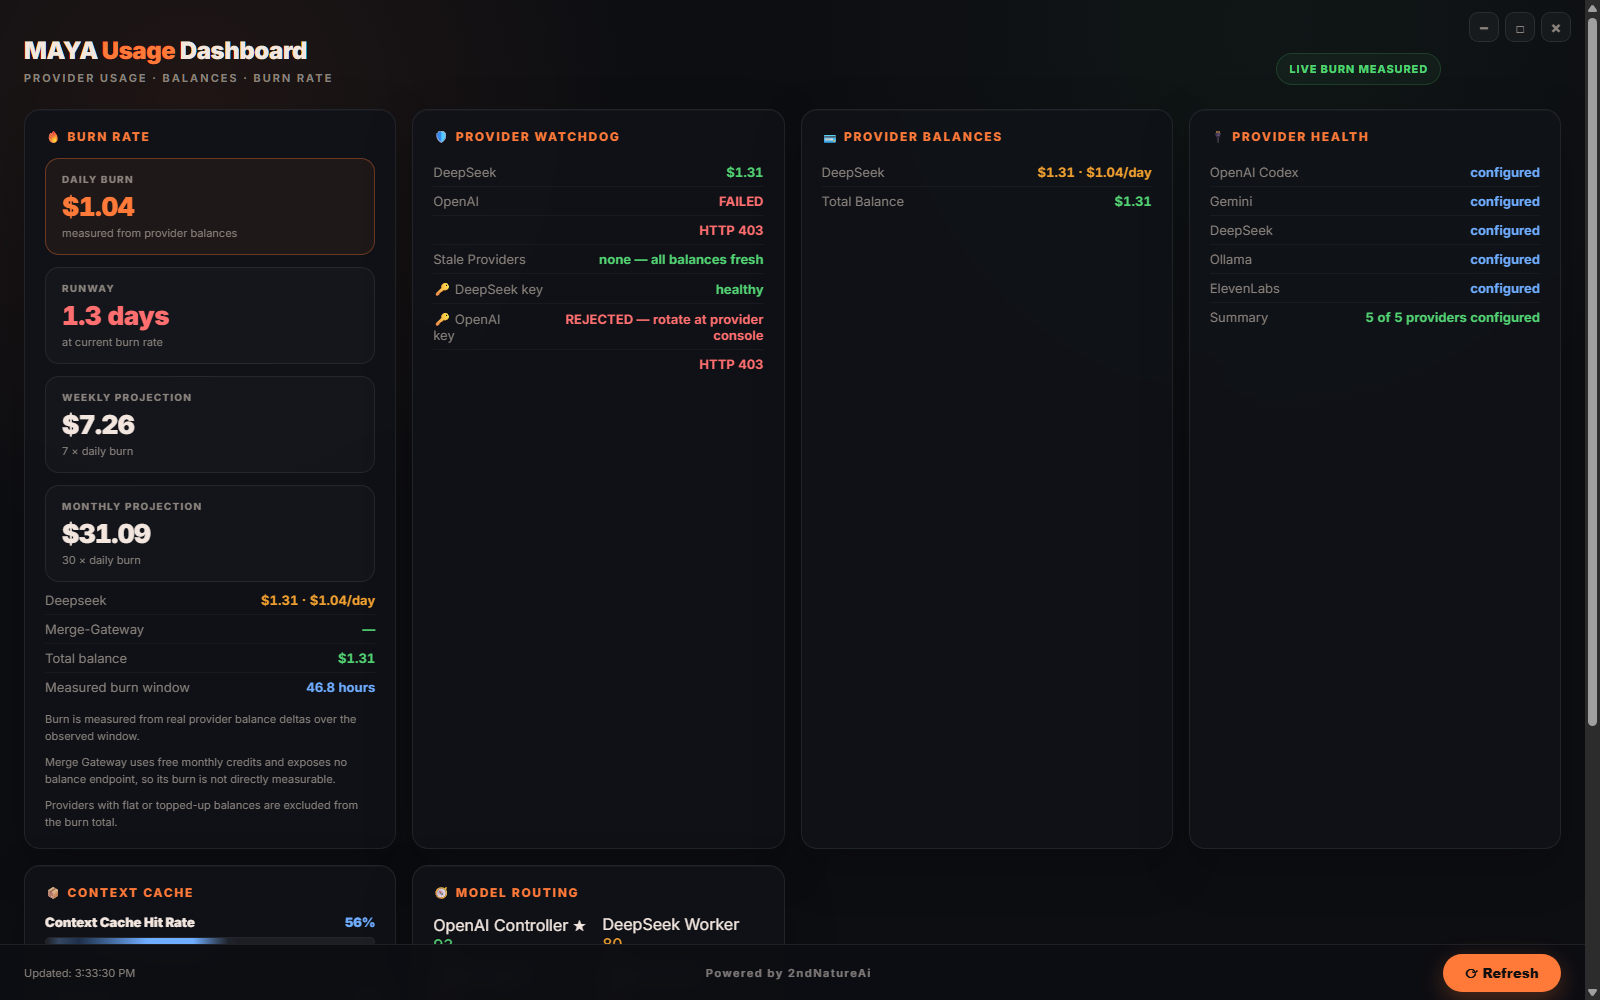
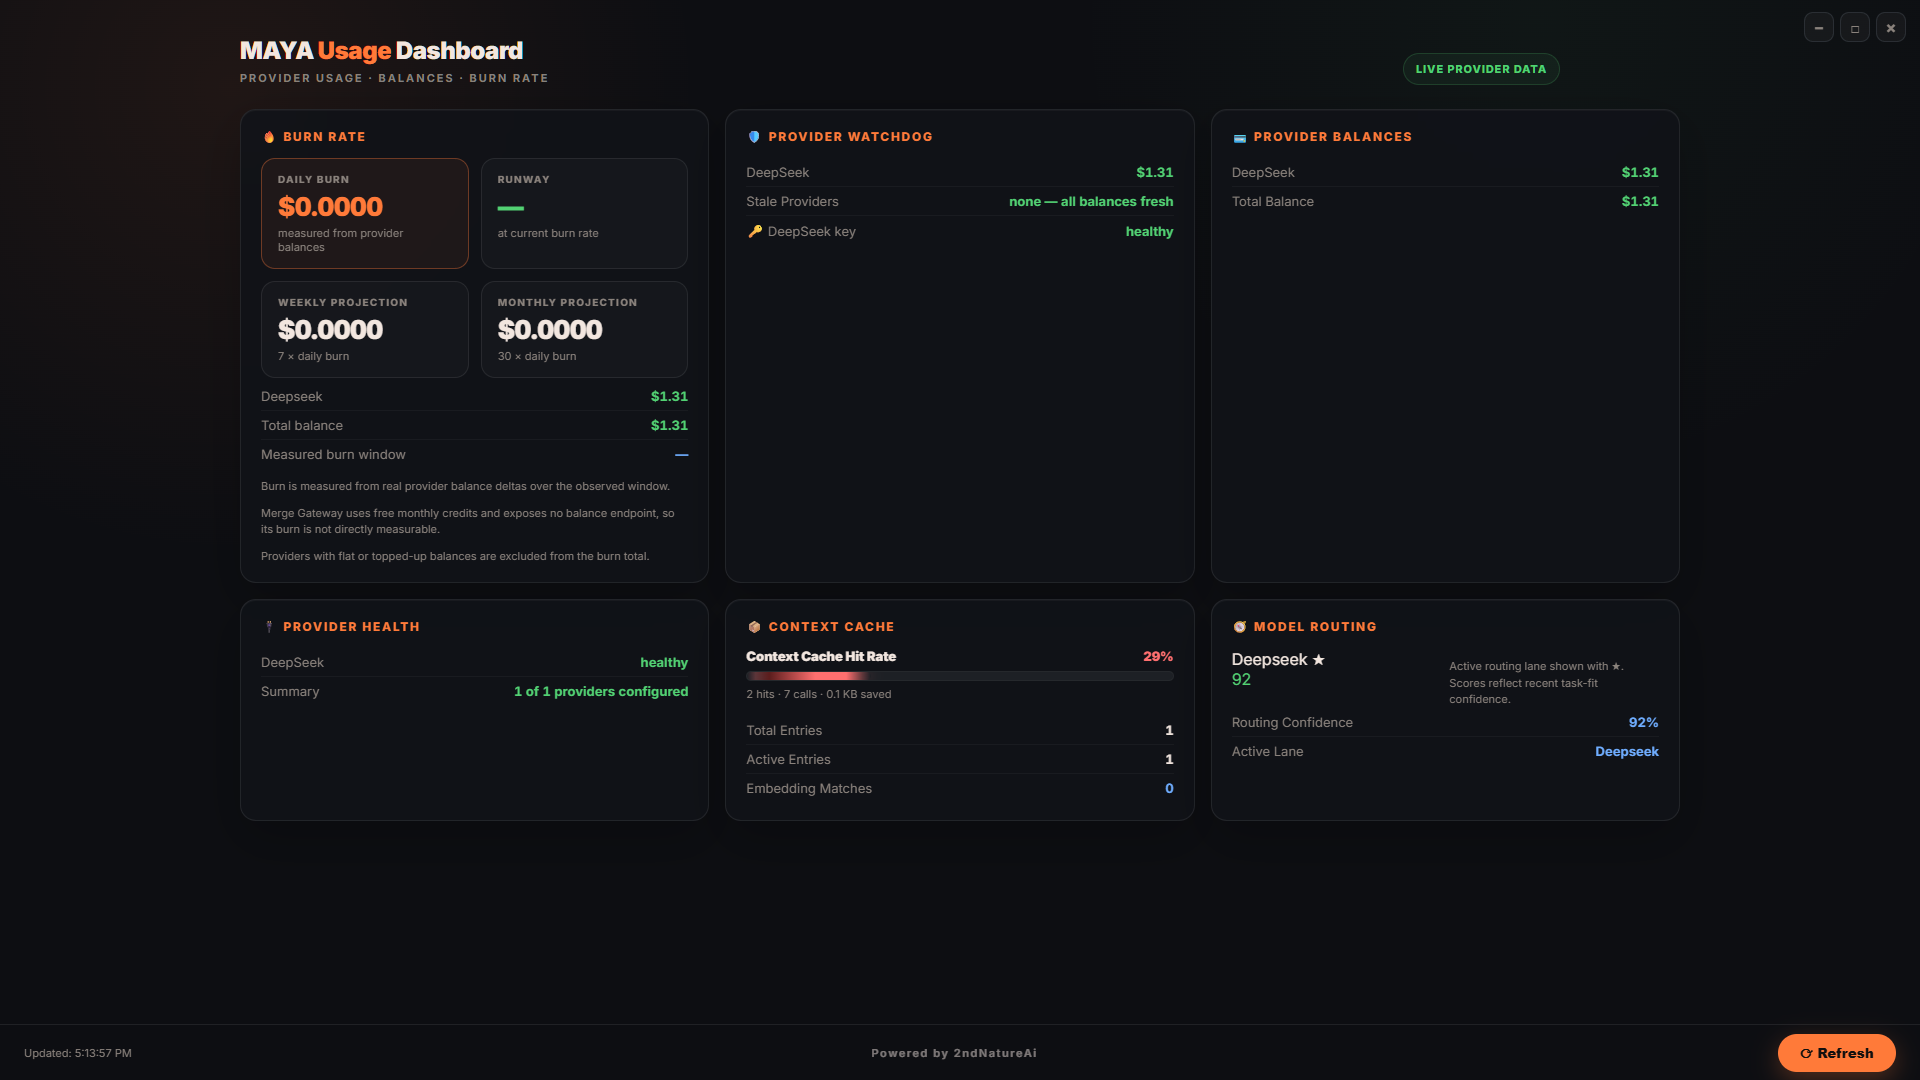
fix: fill public dashboard grid, add context cache + routing data
The public dashboard rendered only 2-3 cards on fresh clones because the
server never provided crl/moe data, leaving a large empty dead zone below
the content. Fixes:

- server.mjs: real minimal context cache (TTL response cache with genuine
  hit/call/byte stats) + routing snapshot derived from real provider health
- HTML: cap grid width (1440px) + center it so cards don't stretch
  edge-to-edge; tighten bottom padding
- README screenshot refreshed to the full 6-card grid
- test: realtime-usage contract now asserts crl/moe/rateLimits present and
  internal fields (memoryUsage/triad/bridge/hermesHome/codex) absent

diff --git a/public/usage-dashboard-public.html b/public/usage-dashboard-public.html
@@ -31,7 +31,7 @@
         var(--bg);
       color: var(--text);
       min-height: 100vh;
-      padding: 24px 24px 96px;
+      padding: 24px 24px 72px;
       -webkit-app-region: no-drag;
     }
     .dash-window-controls {
@@ -49,12 +49,12 @@
     }
     .dash-window-btn:hover { color: var(--orange); border-color: rgba(255,149,64,.28); background: rgba(255,149,64,.075); }
     .dash-window-close:hover { color: var(--red); border-color: rgba(255,111,111,.28); background: rgba(255,111,111,.075); }
-    header { margin: 12px 0 24px; display:flex; justify-content:space-between; gap:18px; align-items:flex-end; padding-right:120px; }
+    header { margin: 12px auto 24px; max-width: 1440px; display:flex; justify-content:space-between; gap:18px; align-items:flex-end; padding-right:120px; }
     h1 { font-size: 24px; font-weight: 900; margin-bottom: 6px; letter-spacing:-.02em; }
     h1 span { color: var(--orange); }
     .sub { color: var(--dim); font-size: 11px; text-transform:uppercase; letter-spacing:.18em; font-weight:700; }
     .source-pill { border:1px solid rgba(82,210,115,.18); border-radius:999px; padding:8px 12px; color:var(--green); background:rgba(82,210,115,.06); font-size:11px; font-weight:800; letter-spacing:.08em; text-transform:uppercase; }
-    .dashboard-grid { display: grid; grid-template-columns: repeat(auto-fit, minmax(360px, 1fr)); gap: 16px; margin-bottom: 70px; }
+    .dashboard-grid { display: grid; grid-template-columns: repeat(auto-fit, minmax(360px, 1fr)); gap: 16px; margin-bottom: 24px; max-width: 1440px; margin-left: auto; margin-right: auto; }
     .card {
       background: var(--panel);
       border: 1px solid var(--border);
